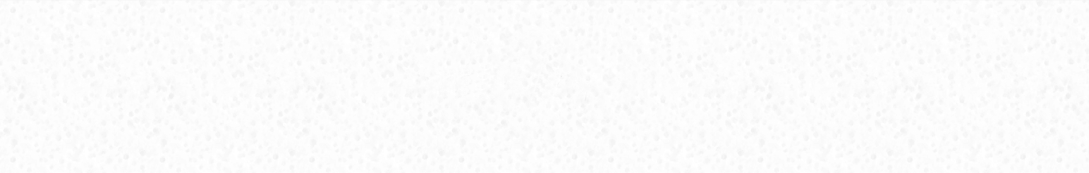
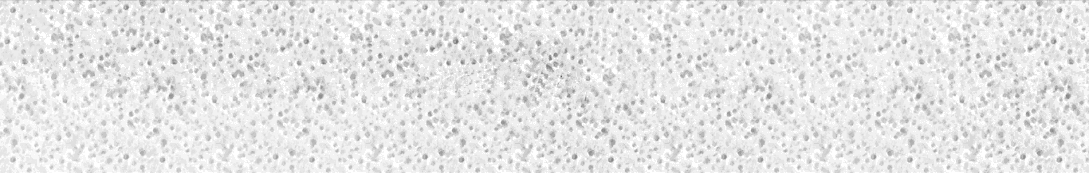
Commit linux

diff --git a/css/Style.scss b/css/Style.scss
@@ -128,7 +128,7 @@ img{
     padding: 30px 0;
     margin: 50px 0 0;
     color: #626262;
-    background-color: #f8f8f8;
+    background-color: #e7e7e7;
     font-size: 14px;
     text-align: center;
 }

diff --git a/inc/header.php b/inc/header.php
@@ -5,11 +5,11 @@
 ?>
 <header class="header">
     <nav class="nav-header">
-        <a class="nav-link <?='home'===$currentPage?'current':''?>" href="/">Home</a>
-        <a class="nav-link <?='about'===$currentPage?'current':''?>" href="/about.php">About me</a>
-        <a class="nav-link <?='contact'===$currentPage?'current':''?>" href="/contact.php">Contact me</a>
+        <a class="nav-link <?='home'===$currentPage?'current':''?>" href="index.php">Home</a>
+        <a class="nav-link <?='about'===$currentPage?'current':''?>" href="about.php">About me</a>
+        <a class="nav-link <?='contact'===$currentPage?'current':''?>" href="contact.php">Contact me</a>
     </nav>
     <div class="logo">
-        <img src="/img/azalea-logo.png" alt="logo">
+        <img src="img/azalea-logo.png" alt="logo">
     </div>
 </header>

diff --git a/inc/article.php b/inc/article.php
@@ -10,7 +10,7 @@
             <header>
                 <div class="article-category">In <span><?= $article['category'] ?></span></div>
                 <h2 class="article-title">
-                    <a href="<?='about'===$currentPage?'#':"/article.php?article={$article['id']}" ?>"><?=$article['title']?></a>
+                    <a href="<?='about'===$currentPage?'#':"article.php?article={$article['id']}" ?>"><?=$article['title']?></a>
                 </h2>
                 <div class="article-creator"><?= $article['creator'] ?><time datetime="<?= $article['date'] ?>"> - <?= date('F j, Y', strtotime($article['date'])) ?></time></div>
             </header>

diff --git a/inc/comment.php b/inc/comment.php
@@ -9,7 +9,7 @@
 
 
 <div class="comment-make">
-    <form method="post" action="/article.php?article=<?=$articleId?>&action=add-comment">
+    <form method="post" action="article.php?article=<?=$articleId?>&action=add-comment">
         <div class="input">
             <label for="author">Author</label>
             <input name="author" id="author" type="text" placeholder="You name" value="<?=htmlspecialchars($_POST['author']) ?? null?>">

diff --git a/inc/head.php b/inc/head.php
@@ -4,8 +4,7 @@
     <meta charset="UTF-8">
 
     <meta name="viewport" content="width=device-width">
-    <link rel="stylesheet" href="/css/Style.css">
-    <link rel="stylesheet" href="/css/ArticleStyle.css">
+    <link rel="stylesheet" href="css/Style.scss">
     <link href="https://fonts.googleapis.com/css2?family=Raleway:wght@300&display=swap" rel="stylesheet">
 
     <title><?= $pageTitle ?>: Lifestyle Blog</title>

diff --git a/inc/functions.php b/inc/functions.php
@@ -4,8 +4,8 @@ declare(strict_types=1);
 function getDbConnection(){
     $dbhost = 'localhost';
     $dbname = 'websitelab';
-    $username = 'root';
-    $passwd = 'root';
+    $username = 'dbuser';
+    $passwd = 'dbpass';
     $db = new PDO("mysql:host=$dbhost; dbname=$dbname", $username, $passwd);
     $db->setAttribute(PDO::ATTR_STRINGIFY_FETCHES, false);
     $db->setAttribute(PDO::ATTR_EMULATE_PREPARES, false);

diff --git a/about.php b/about.php
@@ -1,7 +1,7 @@
 <?php
 $article =  ['id' => null,
     'category' => 'info',
-    'image' => '/img/MyPhoto.jpg',
+    'image' => 'img/MyPhoto.jpg',
     'title' => 'About',
     'creator' => 'Nikita',
     'date' => '2022-06-20 08:36:00',
